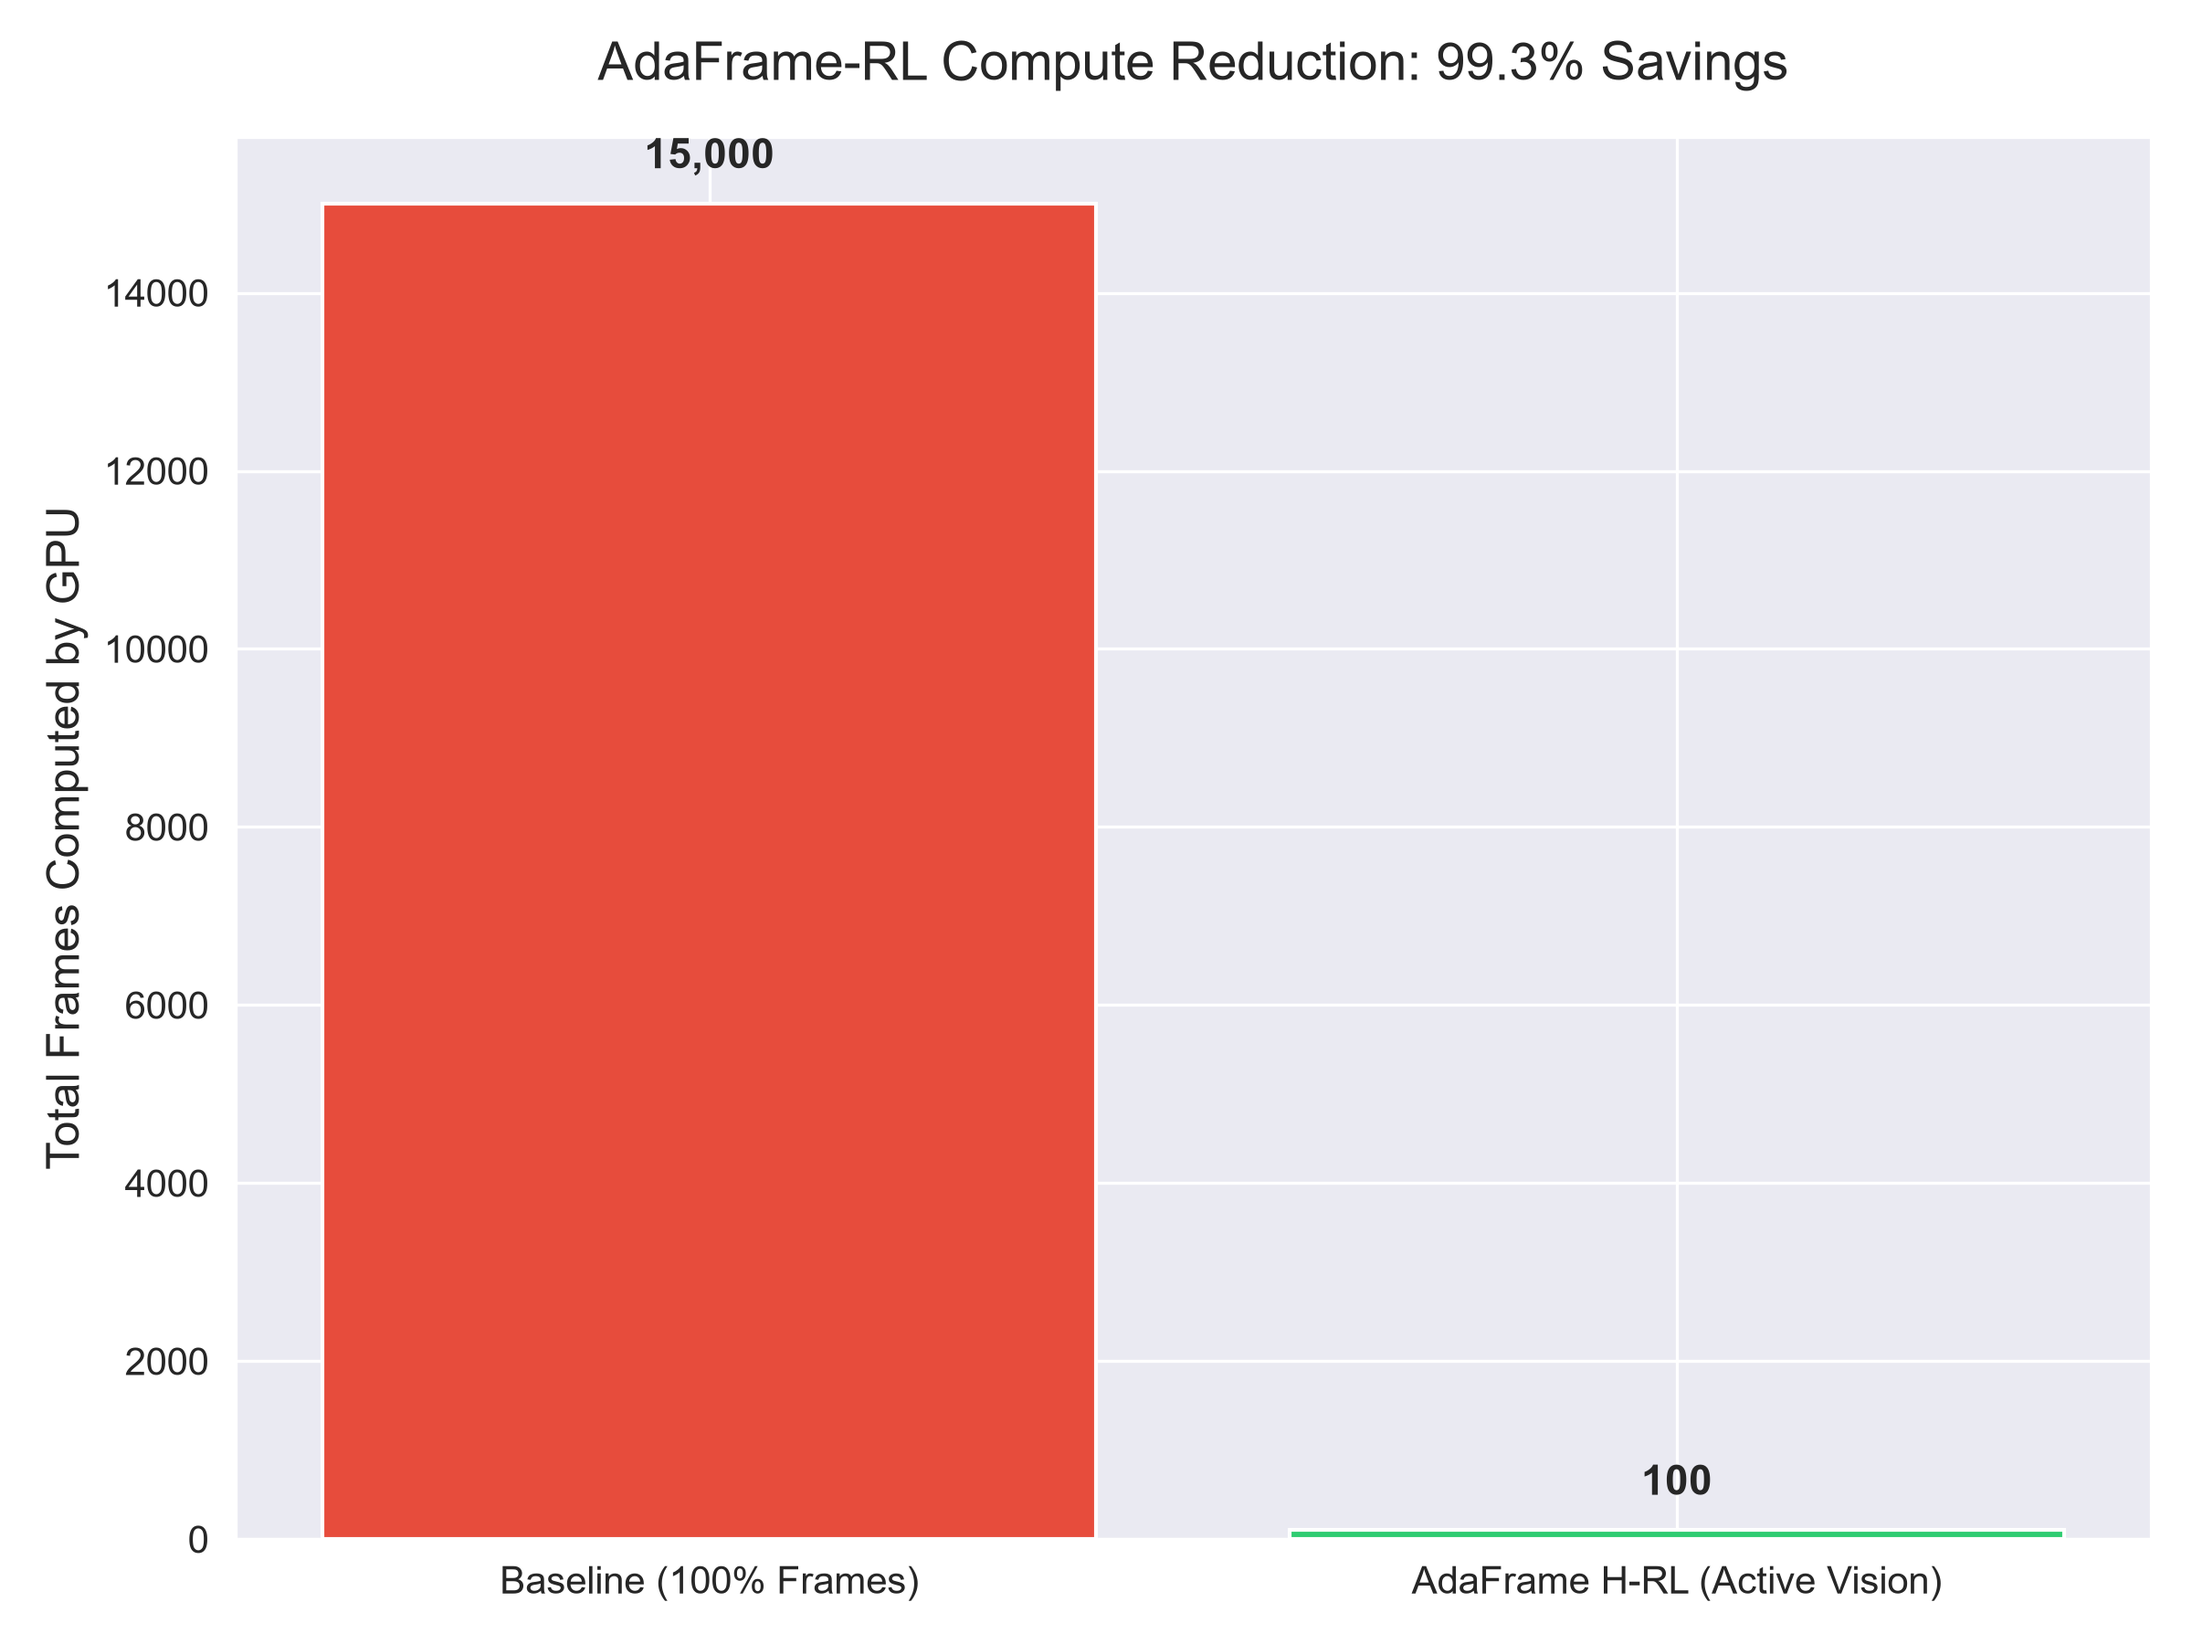
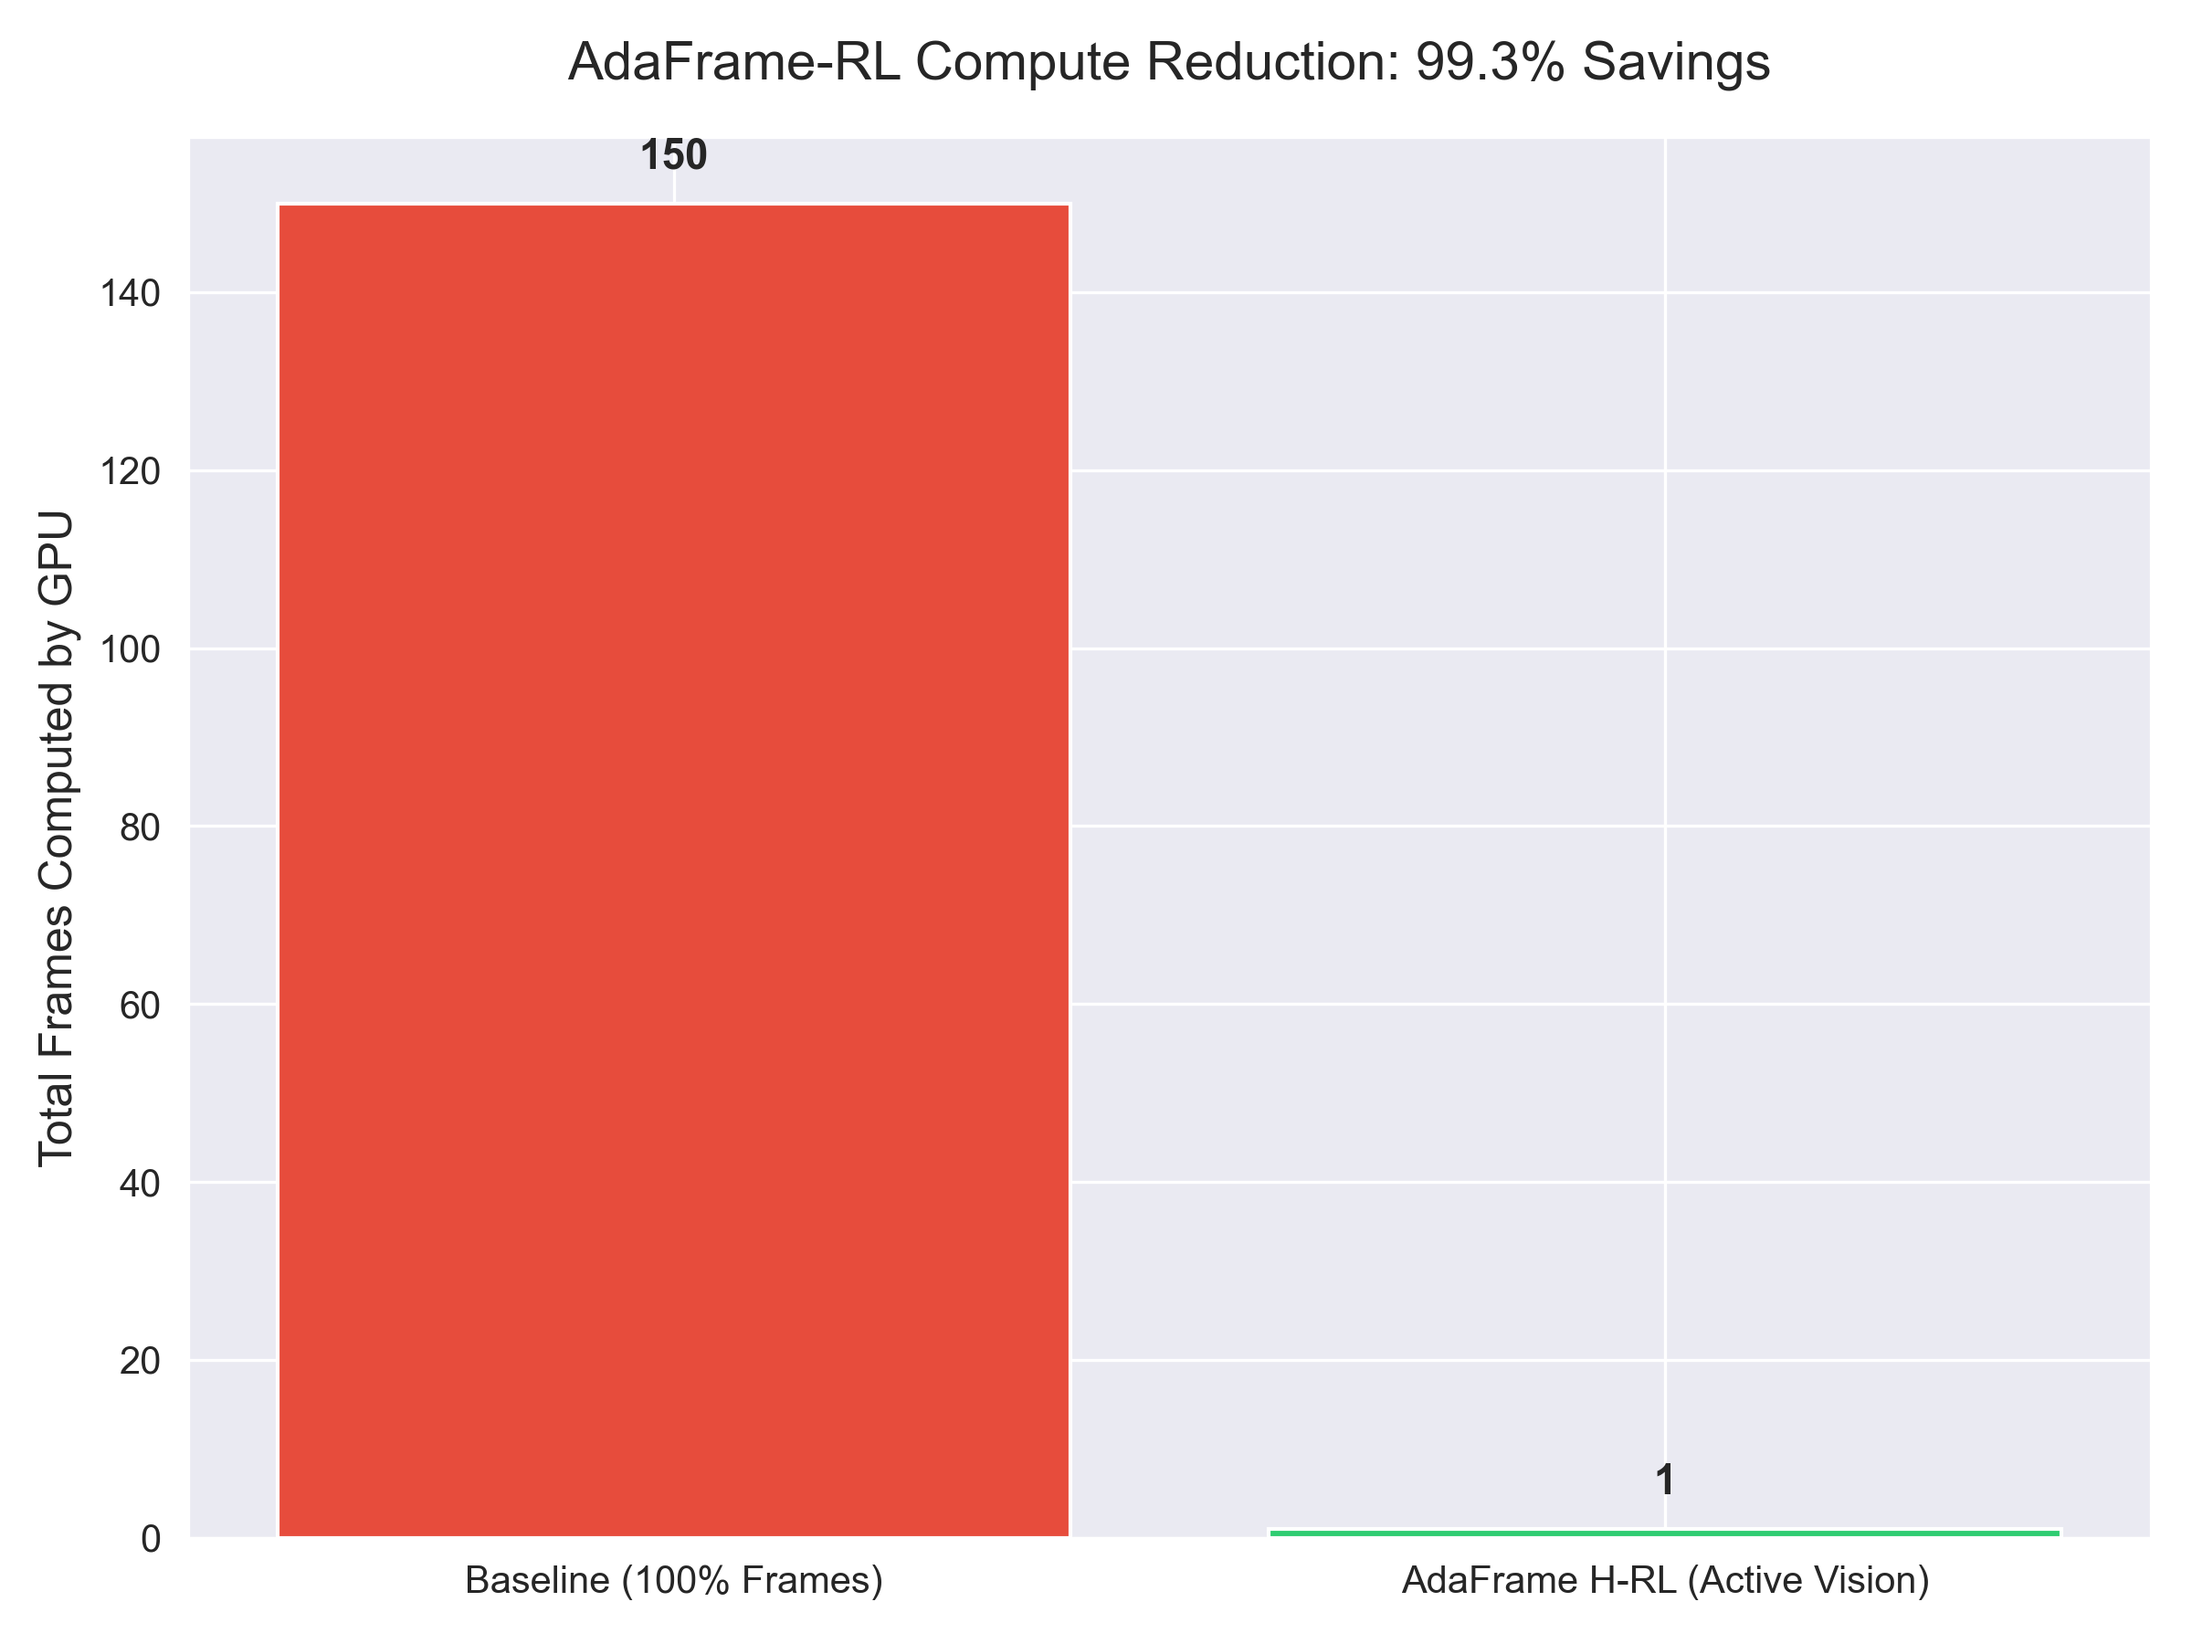
feat: update Phase 2 scripts and results chart

diff --git a/Phase_2/scripts/train_full_hrl.py b/Phase_2/scripts/train_full_hrl.py
@@ -1,9 +1,15 @@
 import os
+import sys
 import time
 import argparse
 import torch
 import torch.optim as optim
 import torch.nn.functional as F
+
+PROJECT_ROOT = os.path.abspath(os.path.join(os.path.dirname(__file__), "..", ".."))
+if PROJECT_ROOT not in sys.path:
+    sys.path.insert(0, PROJECT_ROOT)
+
 from src.dataset import UCF101Dataset
 from src.hierarchical.stream_synthesizer import MultiStreamSynthesizer
 from src.hierarchical.manager_policy import ManagerPolicy

diff --git a/Phase_2/scripts/evaluate_hrl.py b/Phase_2/scripts/evaluate_hrl.py
@@ -1,4 +1,5 @@
 import os
+import sys
 import time
 import argparse
 import torch
@@ -6,6 +7,10 @@ import torch.nn.functional as F
 import matplotlib.pyplot as plt
 import seaborn as sns
 import numpy as np
+
+PROJECT_ROOT = os.path.abspath(os.path.join(os.path.dirname(__file__), "..", ".."))
+if PROJECT_ROOT not in sys.path:
+    sys.path.insert(0, PROJECT_ROOT)
 
 from src.dataset import UCF101Dataset
 from src.hierarchical.manager_policy import ManagerPolicy

diff --git a/Phase_2/scripts/run_1_epoch_test.py b/Phase_2/scripts/run_1_epoch_test.py
@@ -1,8 +1,14 @@
 import os
+import sys
 import time
 import torch
 import torch.optim as optim
 import torch.nn.functional as F
+
+PROJECT_ROOT = os.path.abspath(os.path.join(os.path.dirname(__file__), "..", ".."))
+if PROJECT_ROOT not in sys.path:
+    sys.path.insert(0, PROJECT_ROOT)
+
 from src.dataset import UCF101Dataset
 from src.hierarchical.stream_synthesizer import MultiStreamSynthesizer
 from src.hierarchical.manager_policy import ManagerPolicy

diff --git a/Phase_2/scripts/profile_hrl_execution.py b/Phase_2/scripts/profile_hrl_execution.py
@@ -1,7 +1,13 @@
 import os
+import sys
 import time
 import torch
 import psutil
+
+PROJECT_ROOT = os.path.abspath(os.path.join(os.path.dirname(__file__), "..", ".."))
+if PROJECT_ROOT not in sys.path:
+    sys.path.insert(0, PROJECT_ROOT)
+
 from src.dataset import UCF101Dataset
 from src.hierarchical.stream_synthesizer import MultiStreamSynthesizer
 from src.hierarchical.manager_policy import ManagerPolicy
